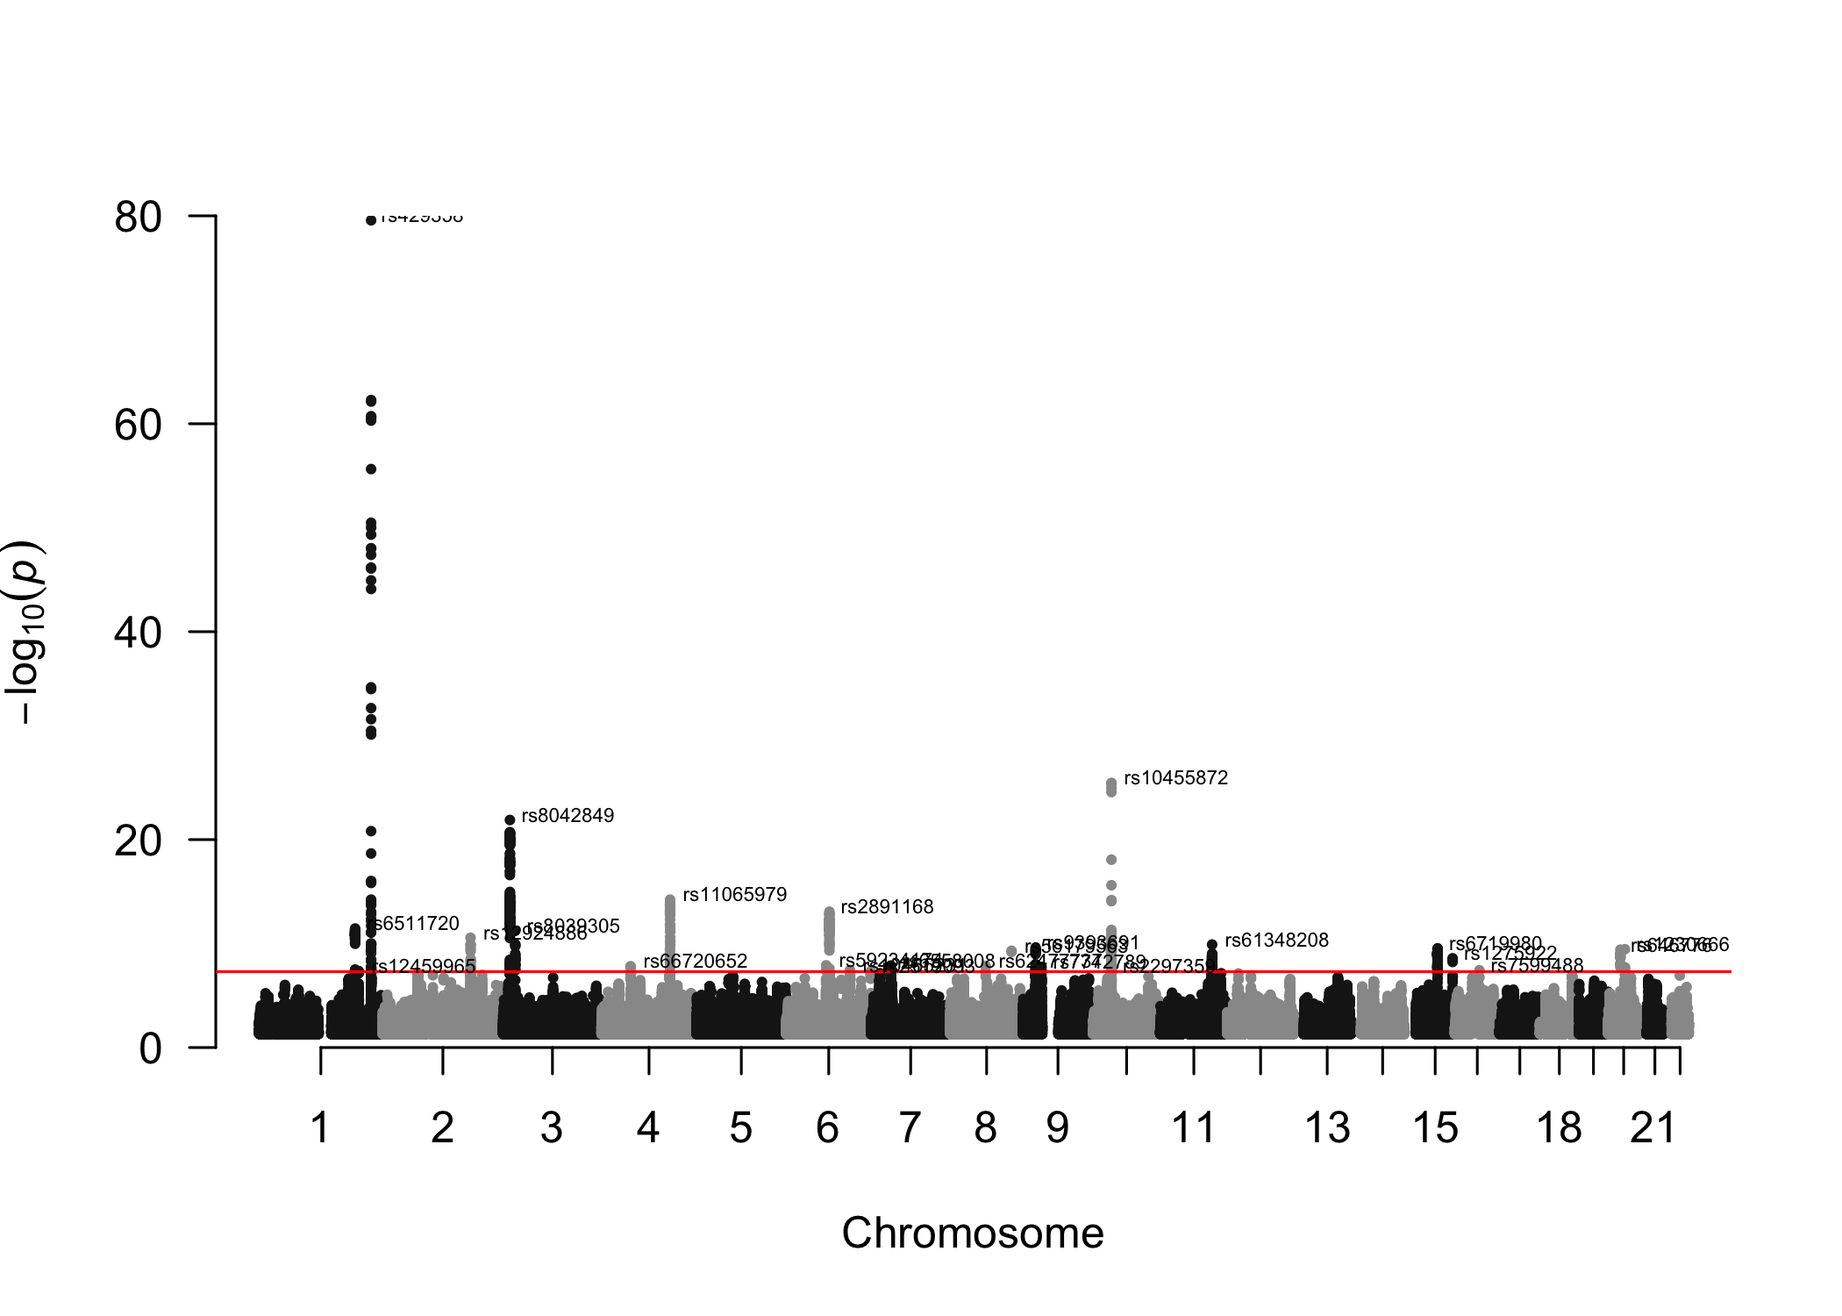
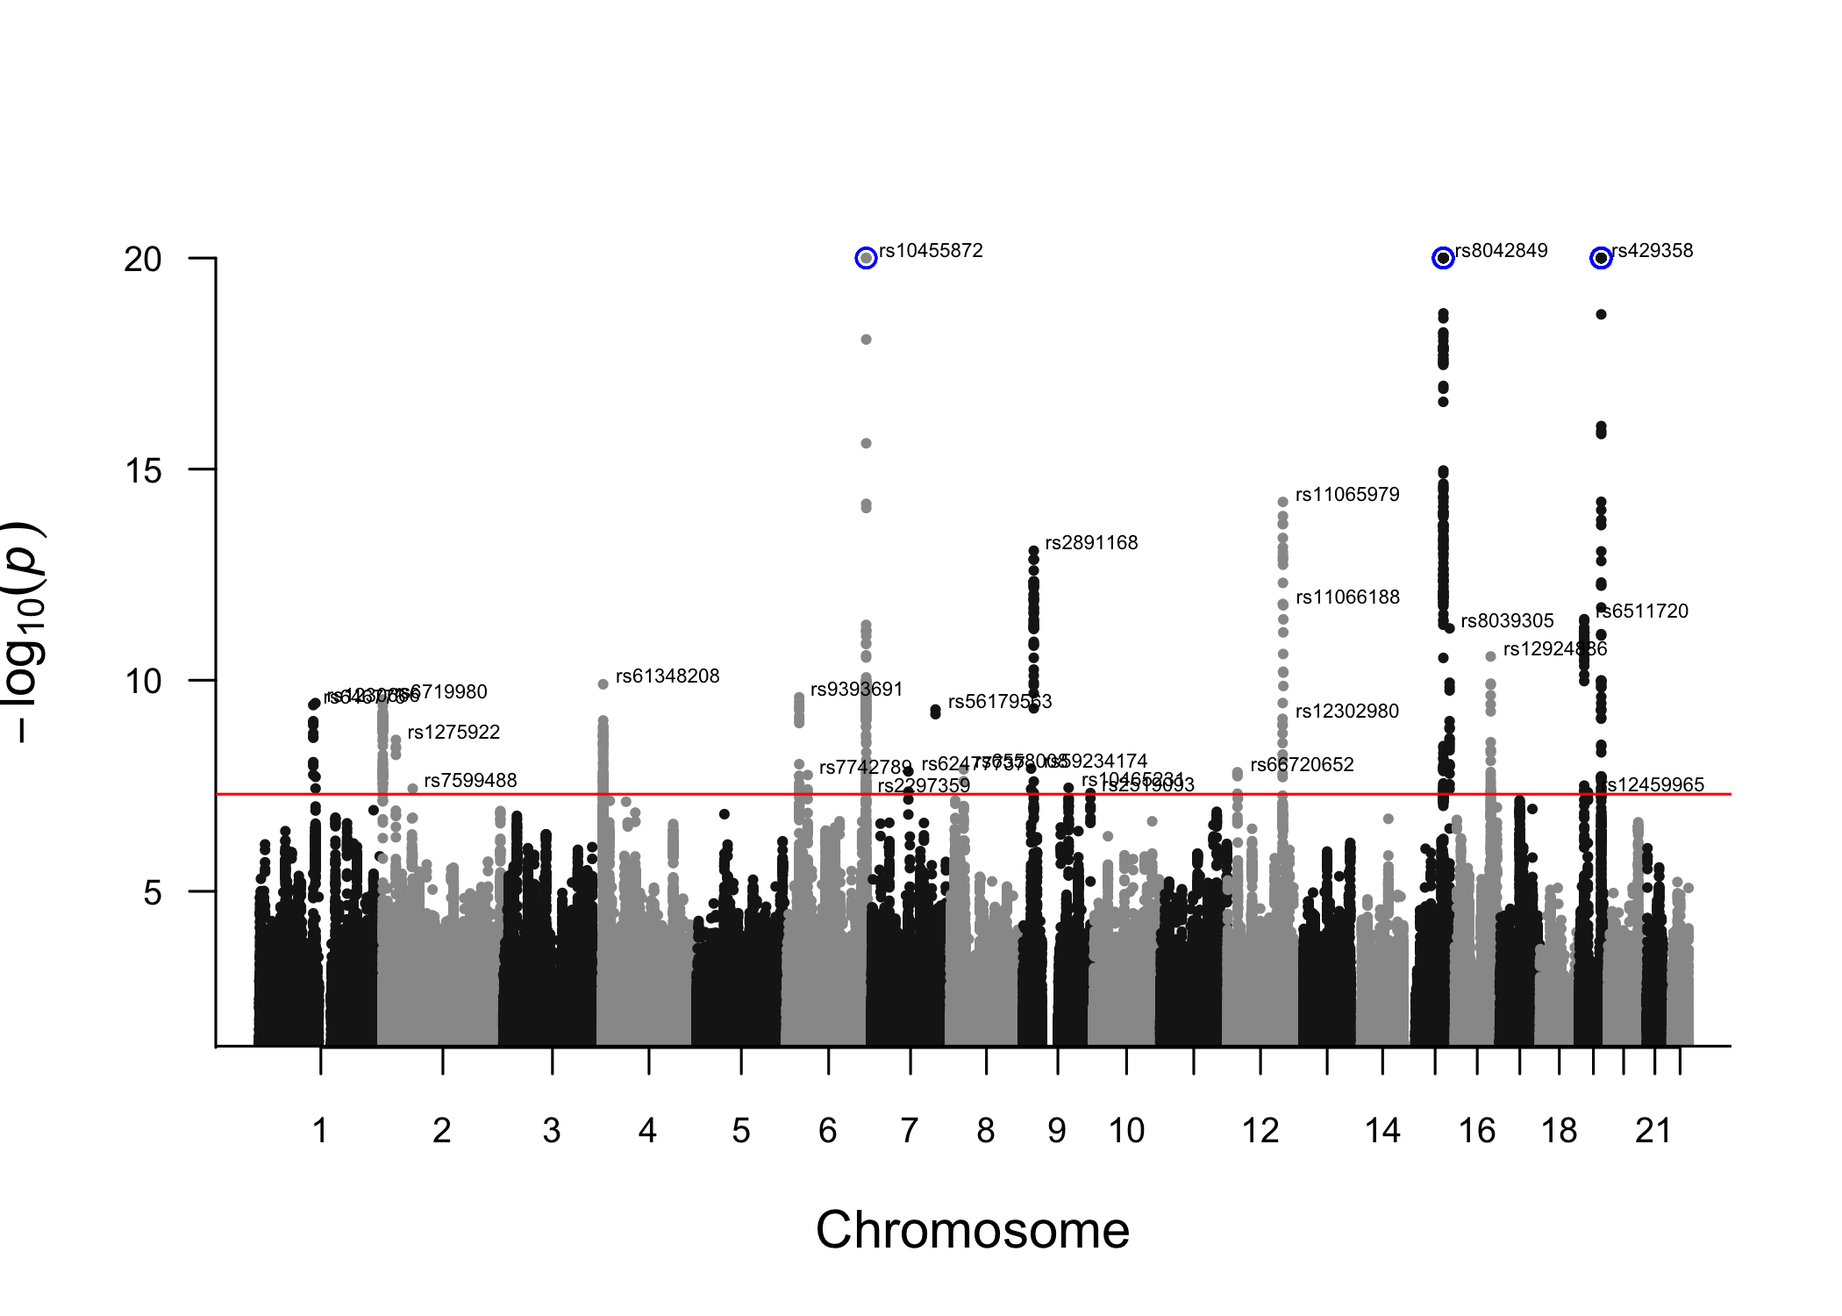
Update Lifespan Analysis

diff --git a/doc/Lifespan_Analysis.md b/doc/Lifespan_Analysis.md
@@ -9,7 +9,7 @@ Z-matrix files have already been downloaded and stored in
 described [here](../README.md).
 
 ``` r
-library(bGWAS)
+library(bGWAS) # bGWAS github version:
 
 # Download data to working directory (~460 MB) if not already here
 print(getwd())
@@ -34,7 +34,12 @@ Lifespan_bGWAS = bGWAS(name = "Lifespan_Timmers2019",
 
     ## <<< Preparation of analysis >>> 
     ## > Checking parameters 
-    ## The name of your analysis is: "Lifespan_Timmers2019". 
+    ## The name of your analysis is: "Lifespan_Timmers2019".
+
+    ## Registered S3 method overwritten by 'R.oo':
+    ##   method        from       
+    ##   throw.default R.methodsS3
+
     ## The Z-Matrix files are stored in "/Users/nmounier/ZMatrices".  
     ## # Preparation of the data... 
     ## The conventional GWAS used as input is: "lifegen_phase2_bothpl_alldr_2017_09_18.tsv.gz".  
@@ -281,18 +286,41 @@ Lifespan_bGWAS = bGWAS(name = "Lifespan_Timmers2019",
     ## ... getting approximated p-values using non-linear quantiles  
     ## ... checking p-values near significance threshold  
     ##     everything is ok!  
+    ## # Estimating p-values for posterior effects... 
+    ## Done! 
+    ## # Estimating p-values for direct effects... 
+    ## Done! 
     ## Done! 
     ## > Pruning and identifying significant SNPs 
+    ## Identification based on BFs 
     ##    Starting with 6,513,704 SNPs 
     ## # Selecting significant SNPs according to p-values... 
     ## 795 SNPs left 
     ## Done! 
     ## # Pruning significant SNPs... 
     ##    distance : 500Kb 
-    ## 25 SNPs left 
+    ## 27 SNPs left 
+    ## Done! 
+    ## Identification based on posterior effects 
+    ##    Starting with 6,513,704 SNPs 
+    ## # Selecting significant SNPs according to p-values... 
+    ## 296 SNPs left 
+    ## Done! 
+    ## # Pruning significant SNPs... 
+    ##    distance : 500Kb 
+    ## 10 SNPs left 
+    ## Done! 
+    ## Identification based on direct effects 
+    ##    Starting with 6,513,704 SNPs 
+    ## # Selecting significant SNPs according to p-values... 
+    ## 91 SNPs left 
+    ## Done! 
+    ## # Pruning significant SNPs... 
+    ##    distance : 500Kb 
+    ## 3 SNPs left 
     ## Done! 
     ## <><><><><><><><><><><><><><><><><><><><><><><><><><><><><><><><><><><><><><><><><><><><>
-    ## Time of the analysis: 36 minute(s) and 15 second(s).
+    ## Time of the analysis: 37 minute(s) and 1 second(s).
 
 We can look at the results more in details.
 
@@ -313,77 +341,83 @@ coefficients_plot_bGWAS(Lifespan_bGWAS)
 7 prior GWASs are used to create the prior, the multivariate causal
 effect estimates are consistent with what we would expect. On this
 figure, the multivariate causal effect estimate and the 95% interval
-from the multivariate MR model using all chromosomes (blac dot and bars)
-as well as the per-chromosome estimates (grey bars) are represented for
-each prior GWASs. Coronary Artery Disease (CAD) has the strongest
-negative effect on lifespan. High Diastolic Blood Pressure (DBP) and
-Body Mass Index (BMI) also decreases lifespan. We can also see that
-education, in this case the number of years of schooling, has a positive
-effect on lifespan.
+from the multivariate MR model using all chromosomes (black dot and
+bars) as well as the per-chromosome estimates (grey bars) are
+represented for each prior GWASs. Coronary Artery Disease (CAD) has the
+strongest negative effect on lifespan. High Diastolic Blood Pressure
+(DBP) and Body Mass Index (BMI) also decreases lifespan. We can also see
+that education, in this case the number of years of schooling, has a
+positive effect on lifespan.
 
 Overall, the squared correlation between prior and observed effects is
 about 0.04 and goes up to 0.369 when we consider only SNPs having at
 least a moderate effect on lifespan (observed p-value \< 0.001).
 
-With this approach, we identified
-`nrow(extract_results_bGWAS(Lifespan_bGWAS))`:
+## Results - BF
+
+With this approach, we identified 27:
 
 ``` r
 # all hits
-knitr::kable(extract_results_bGWAS(Lifespan_bGWAS) %>% transmute(rsid, chrm_UK10K, pos_UK10K, z_obs, mu_prior_estimate, mu_prior_std_error, z_obs, BF, BF_p=as.character(format(BF_p, scientific=T))))
+knitr::kable(extract_results_bGWAS(Lifespan_bGWAS) %>% mutate(BF_p=as.character(format(BF_p, scientific=T))))
 ```
 
-| rsid       | chrm\_UK10K | pos\_UK10K |     z\_obs | mu\_prior\_estimate | mu\_prior\_std\_error |           BF | BF\_p        |
-| :--------- | ----------: | ---------: | ---------: | ------------------: | --------------------: | -----------: | :----------- |
-| rs429358   |           1 |  226237618 |  19.327786 |           1.4769473 |              1.185686 | 1.467887e+52 | 2.704073e-80 |
-| rs10455872 |          10 |   37196047 |  10.281536 |           1.8779506 |              1.114773 | 8.741030e+15 | 3.528841e-26 |
-| rs8042849  |           3 |   13384532 |  10.659387 |           0.1103939 |              1.084015 | 2.480031e+13 | 1.298723e-22 |
-| rs11065979 |           4 |  137826792 | \-7.128082 |         \-1.6730147 |              1.131280 | 1.046698e+08 | 5.983488e-15 |
-| rs2891168  |           6 |   86929591 |   6.601322 |           1.9599063 |              1.148937 | 1.835130e+07 | 8.576140e-14 |
-| rs6511720  |           1 |  194047517 |   5.630731 |           3.3639409 |              1.203012 | 1.715581e+06 | 3.580849e-12 |
-| rs8039305  |           3 |   24197617 |   6.413708 |           1.2254351 |              1.092939 | 1.253924e+06 | 5.916490e-12 |
-| rs12924886 |           2 |  177100492 |   5.679317 |           2.2737479 |              1.092808 | 4.848462e+05 | 2.740447e-11 |
-| rs61348208 |          11 |  104415621 |   5.823361 |           1.4487778 |              1.082599 | 1.914917e+05 | 1.244648e-10 |
-| rs9393691  |           9 |   25616157 | \-5.570119 |         \-1.7169124 |              1.090056 | 1.241246e+05 | 2.533583e-10 |
-| rs6719980  |          15 |   67150296 | \-5.406948 |         \-2.0140965 |              1.117846 | 1.151044e+05 | 2.867957e-10 |
-| rs1230666  |          20 |   34088151 | \-5.804747 |         \-1.1755926 |              1.084836 | 1.023964e+05 | 3.476352e-10 |
-| rs646776   |          20 |   24777265 | \-4.907710 |         \-4.1174475 |              1.195173 | 9.585604e+04 | 3.875245e-10 |
-| rs56179563 |           8 |  123452475 |   5.190489 |           2.3991295 |              1.110002 | 8.276393e+04 | 4.935786e-10 |
-| rs1275922  |          15 |   97402291 | \-5.816777 |         \-0.5943870 |              1.095019 | 3.040337e+04 | 2.588792e-09 |
-| rs59234174 |           6 |   80328206 | \-5.127057 |         \-1.2962002 |              1.084586 | 1.188369e+04 | 1.239443e-08 |
-| rs6558008  |           7 |   39617245 | \-5.424368 |         \-0.7778364 |              1.083506 | 1.159131e+04 | 1.292187e-08 |
-| rs62477737 |           8 |   71432846 | \-5.269231 |         \-0.9908613 |              1.085216 | 1.083516e+04 | 1.446615e-08 |
-| rs66720652 |           4 |   58305294 | \-5.346728 |         \-0.8580309 |              1.081783 | 1.055530e+04 | 1.511394e-08 |
-| rs7742789  |           9 |   37523652 | \-5.299223 |         \-0.8823839 |              1.085563 | 9.642818e+03 | 1.758482e-08 |
-| rs10465231 |           6 |  128337016 | \-5.155534 |         \-0.9065802 |              1.085858 | 6.360363e+03 | 3.534545e-08 |
-| rs7599488  |          16 |   49438040 | \-4.662859 |         \-1.8924839 |              1.094489 | 6.194382e+03 | 3.695131e-08 |
-| rs12459965 |           1 |  201155236 |   4.425792 |           2.5662130 |              1.091147 | 5.499658e+03 | 4.513166e-08 |
-| rs2519093  |           6 |  170070135 | \-4.517091 |         \-2.1886219 |              1.111998 | 5.364198e+03 | 4.706506e-08 |
-| rs2297359  |          10 |   36687959 |   5.407404 |           0.4532031 |              1.080801 | 5.286313e+03 | 4.823741e-08 |
+| rsid       | chrm\_UK10K | pos\_UK10K | alt | ref |     z\_obs | mu\_prior\_estimate | mu\_prior\_std\_error |           BF | BF\_p        |
+| :--------- | ----------: | ---------: | :-- | :-- | ---------: | ------------------: | --------------------: | -----------: | :----------- |
+| rs429358   |          19 |   45411941 | T   | C   |  19.327786 |           1.4769473 |              1.185686 | 1.467887e+52 | 2.704073e-80 |
+| rs10455872 |           6 |  161010118 | A   | G   |  10.281536 |           1.8779506 |              1.114773 | 8.741030e+15 | 3.528841e-26 |
+| rs8042849  |          15 |   78817929 | T   | C   |  10.659387 |           0.1103939 |              1.084015 | 2.480031e+13 | 1.298723e-22 |
+| rs11065979 |          12 |  112059557 | T   | C   | \-7.128082 |         \-1.6730147 |              1.131280 | 1.046698e+08 | 5.983488e-15 |
+| rs2891168  |           9 |   22098619 | A   | G   |   6.601322 |           1.9599063 |              1.148937 | 1.835130e+07 | 8.576140e-14 |
+| rs11066188 |          12 |  112610714 | A   | G   | \-6.523571 |         \-1.2837670 |              1.130564 | 2.788541e+06 | 1.650703e-12 |
+| rs6511720  |          19 |   11202306 | T   | G   |   5.630731 |           3.3639409 |              1.203012 | 1.715581e+06 | 3.580849e-12 |
+| rs8039305  |          15 |   91422543 | T   | C   |   6.413708 |           1.2254351 |              1.092939 | 1.253924e+06 | 5.916490e-12 |
+| rs12924886 |          16 |   72075593 | A   | T   |   5.679317 |           2.2737479 |              1.092808 | 4.848462e+05 | 2.740447e-11 |
+| rs61348208 |           4 |    3089564 | T   | C   |   5.823361 |           1.4487778 |              1.082599 | 1.914917e+05 | 1.244648e-10 |
+| rs9393691  |           6 |   26272829 | T   | C   | \-5.570119 |         \-1.7169124 |              1.090056 | 1.241246e+05 | 2.533583e-10 |
+| rs6719980  |           2 |     651507 | T   | C   | \-5.406948 |         \-2.0140965 |              1.117846 | 1.151044e+05 | 2.867957e-10 |
+| rs1230666  |           1 |  114173410 | A   | G   | \-5.804747 |         \-1.1755926 |              1.084836 | 1.023964e+05 | 3.476352e-10 |
+| rs646776   |           1 |  109818530 | T   | C   | \-4.907710 |         \-4.1174475 |              1.195173 | 9.585604e+04 | 3.875245e-10 |
+| rs56179563 |           7 |  129685597 | A   | G   |   5.190489 |           2.3991295 |              1.110002 | 8.276393e+04 | 4.935786e-10 |
+| rs12302980 |          12 |  111360290 | A   | G   | \-5.750164 |         \-1.0021544 |              1.095870 | 6.086260e+04 | 8.197067e-10 |
+| rs1275922  |           2 |   26932887 | A   | G   | \-5.816777 |         \-0.5943870 |              1.095019 | 3.040337e+04 | 2.588792e-09 |
+| rs59234174 |           9 |   16730258 | T   | C   | \-5.127057 |         \-1.2962002 |              1.084586 | 1.188369e+04 | 1.239443e-08 |
+| rs6558008  |           8 |   27438306 | A   | C   | \-5.424368 |         \-0.7778364 |              1.083506 | 1.159131e+04 | 1.292187e-08 |
+| rs62477737 |           7 |   75162278 | A   | G   | \-5.269231 |         \-0.9908613 |              1.085216 | 1.083516e+04 | 1.446615e-08 |
+| rs66720652 |          12 |   20582640 | A   | T   | \-5.346728 |         \-0.8580309 |              1.081783 | 1.055530e+04 | 1.511394e-08 |
+| rs7742789  |           6 |   43345803 | T   | C   | \-5.299223 |         \-0.8823839 |              1.085563 | 9.642818e+03 | 1.758482e-08 |
+| rs10465231 |           9 |   92183413 | T   | C   | \-5.155534 |         \-0.9065802 |              1.085858 | 6.360363e+03 | 3.534545e-08 |
+| rs7599488  |           2 |   60718347 | T   | C   | \-4.662859 |         \-1.8924839 |              1.094489 | 6.194382e+03 | 3.695131e-08 |
+| rs12459965 |          19 |   18452195 | T   | C   |   4.425792 |           2.5662130 |              1.091147 | 5.499658e+03 | 4.513166e-08 |
+| rs2519093  |           9 |  136141870 | T   | C   | \-4.517091 |         \-2.1886219 |              1.111998 | 5.364198e+03 | 4.706506e-08 |
+| rs2297359  |           6 |  160492613 | T   | C   |   5.407404 |           0.4532031 |              1.080801 | 5.286313e+03 | 4.823741e-08 |
 
 ``` r
 # new hits (compared to conventional GWAS)
 extract_results_bGWAS(Lifespan_bGWAS) %>%
   mutate(obs_p = 2*pnorm(-abs(z_obs))) %>%
   filter(obs_p>5e-8) -> NEW
-knitr::kable(NEW %>% transmute(rsid, chrm_UK10K, pos_UK10K, z_obs, mu_prior_estimate, mu_prior_std_error, z_obs, BF, BF_p=as.character(format(BF_p, scientific=T))))
+knitr::kable(NEW %>% mutate(BF_p=as.character(format(BF_p, scientific=T))))
 ```
 
-| rsid       | chrm\_UK10K | pos\_UK10K |     z\_obs | mu\_prior\_estimate | mu\_prior\_std\_error |         BF | BF\_p        |
-| :--------- | ----------: | ---------: | ---------: | ------------------: | --------------------: | ---------: | :----------- |
-| rs6719980  |          15 |   67150296 | \-5.406948 |         \-2.0140965 |              1.117846 | 115104.415 | 2.867957e-10 |
-| rs646776   |          20 |   24777265 | \-4.907710 |         \-4.1174475 |              1.195173 |  95856.035 | 3.875245e-10 |
-| rs56179563 |           8 |  123452475 |   5.190489 |           2.3991295 |              1.110002 |  82763.931 | 4.935786e-10 |
-| rs59234174 |           6 |   80328206 | \-5.127057 |         \-1.2962002 |              1.084586 |  11883.686 | 1.239443e-08 |
-| rs6558008  |           7 |   39617245 | \-5.424368 |         \-0.7778364 |              1.083506 |  11591.306 | 1.292187e-08 |
-| rs62477737 |           8 |   71432846 | \-5.269231 |         \-0.9908613 |              1.085216 |  10835.161 | 1.446615e-08 |
-| rs66720652 |           4 |   58305294 | \-5.346728 |         \-0.8580309 |              1.081783 |  10555.302 | 1.511394e-08 |
-| rs7742789  |           9 |   37523652 | \-5.299223 |         \-0.8823839 |              1.085563 |   9642.818 | 1.758482e-08 |
-| rs10465231 |           6 |  128337016 | \-5.155534 |         \-0.9065802 |              1.085858 |   6360.363 | 3.534545e-08 |
-| rs7599488  |          16 |   49438040 | \-4.662859 |         \-1.8924839 |              1.094489 |   6194.382 | 3.695131e-08 |
-| rs12459965 |           1 |  201155236 |   4.425792 |           2.5662130 |              1.091147 |   5499.658 | 4.513166e-08 |
-| rs2519093  |           6 |  170070135 | \-4.517091 |         \-2.1886219 |              1.111998 |   5364.198 | 4.706506e-08 |
-| rs2297359  |          10 |   36687959 |   5.407404 |           0.4532031 |              1.080801 |   5286.313 | 4.823741e-08 |
+| rsid       | chrm\_UK10K | pos\_UK10K | alt | ref |     z\_obs | mu\_prior\_estimate | mu\_prior\_std\_error |         BF | BF\_p        |  obs\_p |
+| :--------- | ----------: | ---------: | :-- | :-- | ---------: | ------------------: | --------------------: | ---------: | :----------- | ------: |
+| rs6719980  |           2 |     651507 | T   | C   | \-5.406948 |         \-2.0140965 |              1.117846 | 115104.415 | 2.867957e-10 | 1.0e-07 |
+| rs646776   |           1 |  109818530 | T   | C   | \-4.907710 |         \-4.1174475 |              1.195173 |  95856.035 | 3.875245e-10 | 9.0e-07 |
+| rs56179563 |           7 |  129685597 | A   | G   |   5.190489 |           2.3991295 |              1.110002 |  82763.931 | 4.935786e-10 | 2.0e-07 |
+| rs59234174 |           9 |   16730258 | T   | C   | \-5.127057 |         \-1.2962002 |              1.084586 |  11883.686 | 1.239443e-08 | 3.0e-07 |
+| rs6558008  |           8 |   27438306 | A   | C   | \-5.424368 |         \-0.7778364 |              1.083506 |  11591.306 | 1.292187e-08 | 1.0e-07 |
+| rs62477737 |           7 |   75162278 | A   | G   | \-5.269231 |         \-0.9908613 |              1.085216 |  10835.161 | 1.446615e-08 | 1.0e-07 |
+| rs66720652 |          12 |   20582640 | A   | T   | \-5.346728 |         \-0.8580309 |              1.081783 |  10555.302 | 1.511394e-08 | 1.0e-07 |
+| rs7742789  |           6 |   43345803 | T   | C   | \-5.299223 |         \-0.8823839 |              1.085563 |   9642.818 | 1.758482e-08 | 1.0e-07 |
+| rs10465231 |           9 |   92183413 | T   | C   | \-5.155534 |         \-0.9065802 |              1.085858 |   6360.363 | 3.534545e-08 | 3.0e-07 |
+| rs7599488  |           2 |   60718347 | T   | C   | \-4.662859 |         \-1.8924839 |              1.094489 |   6194.382 | 3.695131e-08 | 3.1e-06 |
+| rs12459965 |          19 |   18452195 | T   | C   |   4.425792 |           2.5662130 |              1.091147 |   5499.658 | 4.513166e-08 | 9.6e-06 |
+| rs2519093  |           9 |  136141870 | T   | C   | \-4.517091 |         \-2.1886219 |              1.111998 |   5364.198 | 4.706506e-08 | 6.3e-06 |
+| rs2297359  |           6 |  160492613 | T   | C   |   5.407404 |           0.4532031 |              1.080801 |   5286.313 | 4.823741e-08 | 1.0e-07 |
+
+13 of them are missed by the conventional GWAS (using same p-value
+threshold of 5e-8 to call significance).
 
 ``` r
 manhattan_plot_bGWAS(Lifespan_bGWAS)
@@ -391,26 +425,26 @@ manhattan_plot_bGWAS(Lifespan_bGWAS)
 
 <img src="LifespanAnalysis/Lifespan_v1.0.0-results3-1.png" width="100%" />
 
+``` r
+heatmap_bGWAS(Lifespan_bGWAS)
+```
+
+<img src="LifespanAnalysis/Lifespan_v1.0.0-results4-1.png" width="100%" />
+
+## Results - Direct Effects
+
 We can use direct effects to identify SNPs significantly acting on
 lifespan independently from the prior GWASs used to create the prior:
 
 ``` r
-# new hits (compared to conventional GWAS)
-extract_results_bGWAS(Lifespan_bGWAS) %>%
-  mutate(direct_z = mu_direct_estimate / mu_direct_std_error,
-        direct_p = 2*pnorm(-abs(direct_z))) %>%
-  filter(direct_p<5e-8) -> DIRECT
-knitr::kable(DIRECT %>% transmute(rsid, chrm_UK10K, pos_UK10K, z_obs, mu_prior_estimate, mu_prior_std_error,  mu_direct_estimate, mu_direct_std_error, direct_z, direct_p=as.character(format(direct_p, scientific=T))))
+knitr::kable(extract_results_bGWAS(Lifespan_bGWAS, results="direct")  %>% mutate(p_direct=as.character(format(p_direct, scientific=T))))
 ```
 
-| rsid       | chrm\_UK10K | pos\_UK10K |   z\_obs | mu\_prior\_estimate | mu\_prior\_std\_error | mu\_direct\_estimate | mu\_direct\_std\_error | direct\_z | direct\_p    |
-| :--------- | ----------: | ---------: | -------: | ------------------: | --------------------: | -------------------: | ---------------------: | --------: | :----------- |
-| rs429358   |           1 |  226237618 | 19.32779 |           1.4769473 |              1.185686 |            17.850838 |               1.551081 | 11.508644 | 1.193398e-30 |
-| rs10455872 |          10 |   37196047 | 10.28154 |           1.8779506 |              1.114773 |             8.403586 |               1.497571 |  5.611478 | 2.006052e-08 |
-| rs8042849  |           3 |   13384532 | 10.65939 |           0.1103939 |              1.084015 |            10.548993 |               1.474818 |  7.152742 | 8.506164e-13 |
+| rsid       | chrm\_UK10K | pos\_UK10K | alt | ref |     z\_obs | mu\_direct\_estimate | mu\_direct\_std\_error |  z\_direct | p\_direct    |
+| :--------- | ----------: | ---------: | :-- | :-- | ---------: | -------------------: | ---------------------: | ---------: | :----------- |
+| rs429358   |          19 |   45411941 | T   | C   |   19.32779 |            17.850838 |               1.551081 |  11.508644 | 1.193398e-30 |
+| rs55730499 |           6 |  161005610 | T   | C   | \-10.25780 |           \-8.534113 |               1.495823 | \-5.705294 | 1.161422e-08 |
+| rs8042849  |          15 |   78817929 | T   | C   |   10.65939 |            10.548993 |               1.474818 |   7.152742 | 8.506164e-13 |
 
 Among these hits…: Not APOE (or CHRNA, but smoking not used so makes
-sense?) … needs to be looked at a bit more\!  
-Should we also look at non significant SNPs (based on BFs) but with
-significant direct effects? -\> create a function to extract SNPs having
-significant direct (posterior) SNPs independently of prior/BFs?
+sense?) … needs to be looked at a bit more\!
